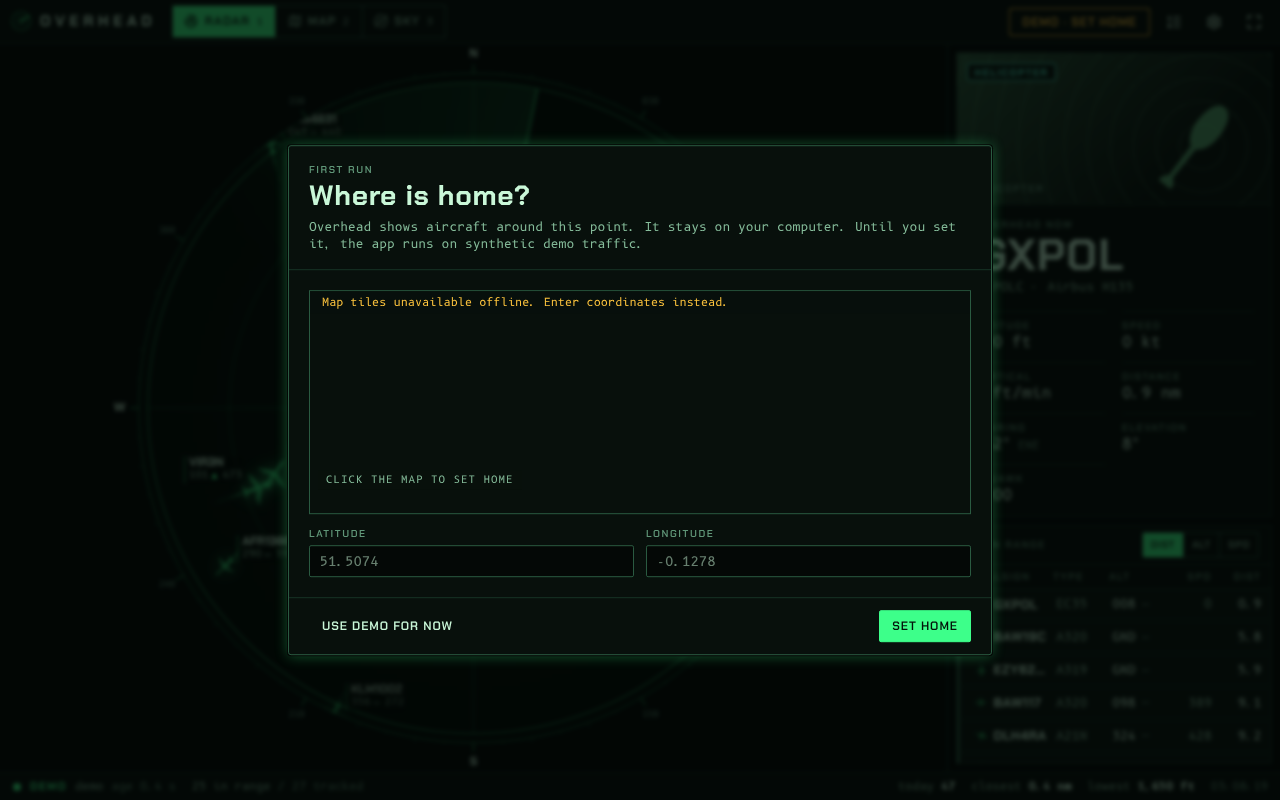
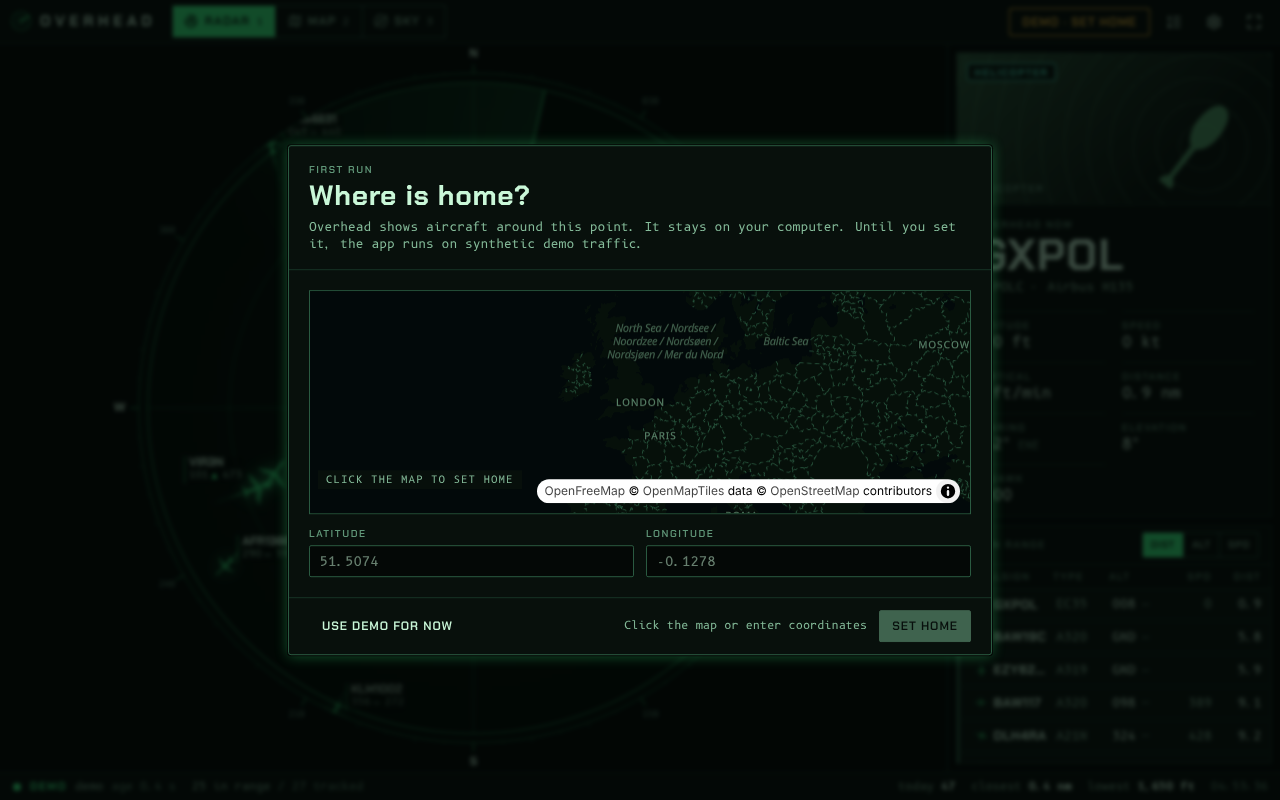
Fix first-run map: register MapLibre worker globally, fix picker height, clearer disabled state
Claude-Session: https://claude.ai/code/session_01UeT5mNiEZRmwE22Kgsz5wu

diff --git a/src/lib/components/HomePicker.svelte b/src/lib/components/HomePicker.svelte
@@ -9,6 +9,7 @@
   let map: maplibre.Map | undefined;
   let marker: maplibre.Marker | undefined;
   let failed = $state(false);
+  let loaded = false;
 
   onMount(() => {
     try {
@@ -16,7 +17,10 @@
         container: el, style: buildStyle(), center: [lon ?? -0.1278, lat ?? 51.5074], zoom: lat != null ? 9 : 2.5,
         attributionControl: { compact: true }, dragRotate: false, maxPitch: 0,
       });
-      map.on('error', () => (failed = true));
+      map.once('load', () => (loaded = true));
+      map.on('error', () => {
+        if (!loaded) failed = true;
+      });
       map.on('click', (e) => {
         lat = Math.round(e.lngLat.lat * 1e5) / 1e5;
         lon = Math.round(e.lngLat.lng * 1e5) / 1e5;
@@ -37,9 +41,9 @@
 </script>
 
 <div class="relative border border-line2" style:height>
-  <div bind:this={el} class="absolute inset-0" style="background: var(--map-land); cursor: crosshair"></div>
+  <div class="absolute inset-0" style="background: var(--map-land)"><div bind:this={el} class="h-full w-full" style="cursor: crosshair"></div></div>
   {#if failed}
-    <div class="pointer-events-none absolute inset-x-0 top-0 bg-panel/90 px-3 py-1 text-xs text-warn">Map tiles unavailable offline. Enter coordinates instead.</div>
+    <div class="pointer-events-none absolute inset-x-0 top-0 bg-panel/90 px-3 py-1 text-xs text-warn">Map could not load. Type your latitude and longitude below instead.</div>
   {/if}
   <div class="pointer-events-none absolute bottom-6 left-2 bg-panel/85 px-2 py-0.5 text-[10px] uppercase tracking-widest text-ink2">Click the map to set home</div>
 </div>

diff --git a/src/lib/components/Onboarding.svelte b/src/lib/components/Onboarding.svelte
@@ -36,7 +36,10 @@
       </div>
       <div class="flex items-center justify-between gap-3 border-t border-line px-5 py-3">
         <button class="btn btn-ghost" onclick={() => app.finishOnboarding()}>Use demo for now</button>
-        <button class="btn btn-primary" disabled={!valid} onclick={save}>Set home</button>
+        <div class="flex items-center gap-3">
+          {#if !valid}<span class="text-xs text-ink2">Click the map or enter coordinates</span>{/if}
+          <button class="btn btn-primary" disabled={!valid} onclick={save}>Set home</button>
+        </div>
       </div>
     </Dialog.Content>
   </Dialog.Portal>

diff --git a/src/lib/components/MapView.svelte b/src/lib/components/MapView.svelte
@@ -2,7 +2,6 @@
   import { onMount } from 'svelte';
   import * as maplibregl from 'maplibre-gl';
   import 'maplibre-gl/dist/maplibre-gl.css';
-  import workerUrl from 'maplibre-gl/dist/maplibre-gl-worker.mjs?url';
   import { LocateFixed } from '@lucide/svelte';
   import { app, scene } from '../store.svelte';
   import { readPalette, type Palette } from '../theme';
@@ -12,8 +11,6 @@
   import { enuToLatLon, NM_M } from '../geo';
   import { distFromKm } from '../units';
   import IconButton from './IconButton.svelte';
-
-  maplibregl.setWorkerUrl(workerUrl);
 
   let host: HTMLDivElement;
   let overlay: HTMLCanvasElement;

diff --git a/src/lib/mapStyle.ts b/src/lib/mapStyle.ts
@@ -5,6 +5,11 @@
 
 import type { StyleSpecification, LayerSpecification } from 'maplibre-gl';
 import { mapColors } from './theme';
+import { setWorkerUrl } from 'maplibre-gl';
+import workerUrl from 'maplibre-gl/dist/maplibre-gl-worker.mjs?url';
+
+// Must run before any Map is created (first-run dialog included).
+setWorkerUrl(workerUrl);
 
 export function buildStyle(): StyleSpecification {
   const c = mapColors();

diff --git a/src/styles/app.css b/src/styles/app.css
@@ -423,3 +423,9 @@ body {
     scroll-behavior: auto !important;
   }
 }
+
+.btn:disabled {
+  opacity: 0.4;
+  cursor: not-allowed;
+  filter: saturate(0.4);
+}
